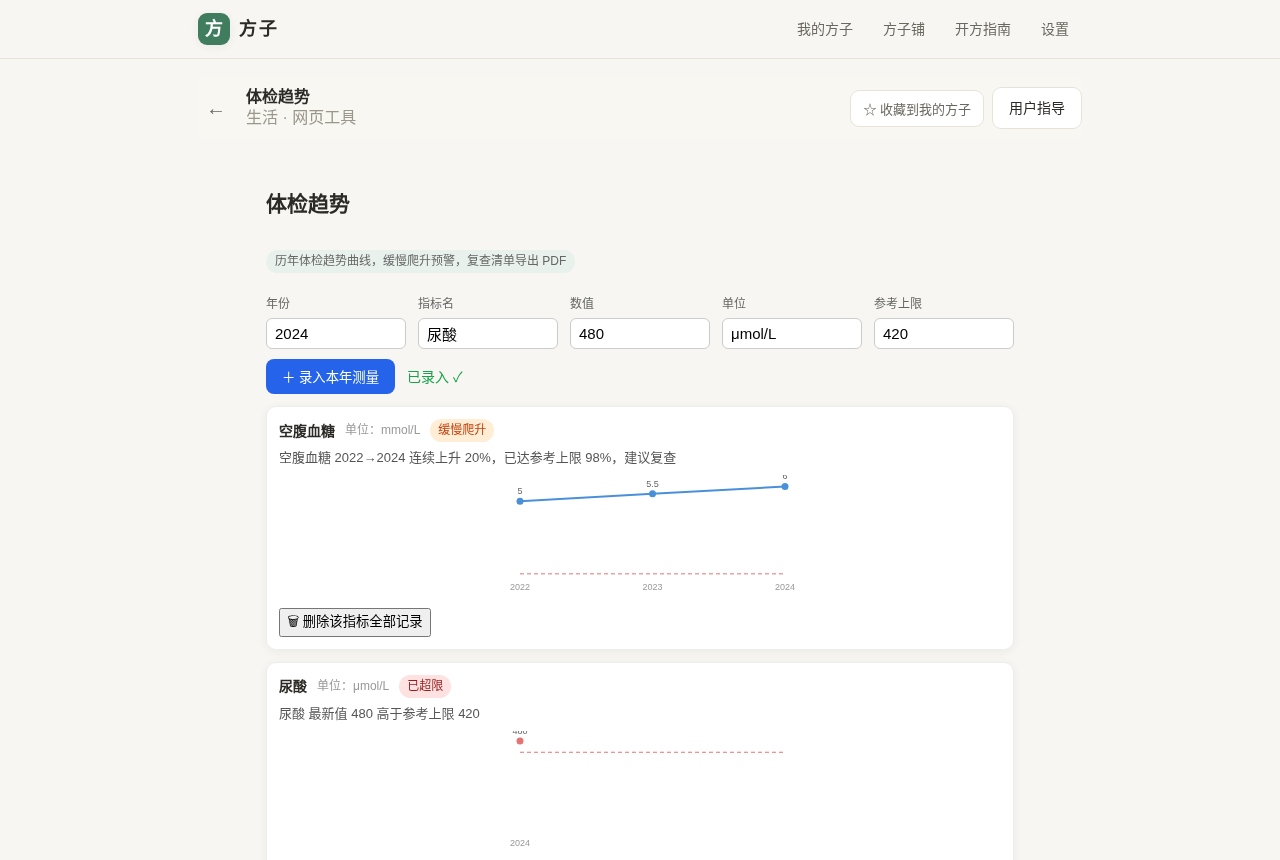
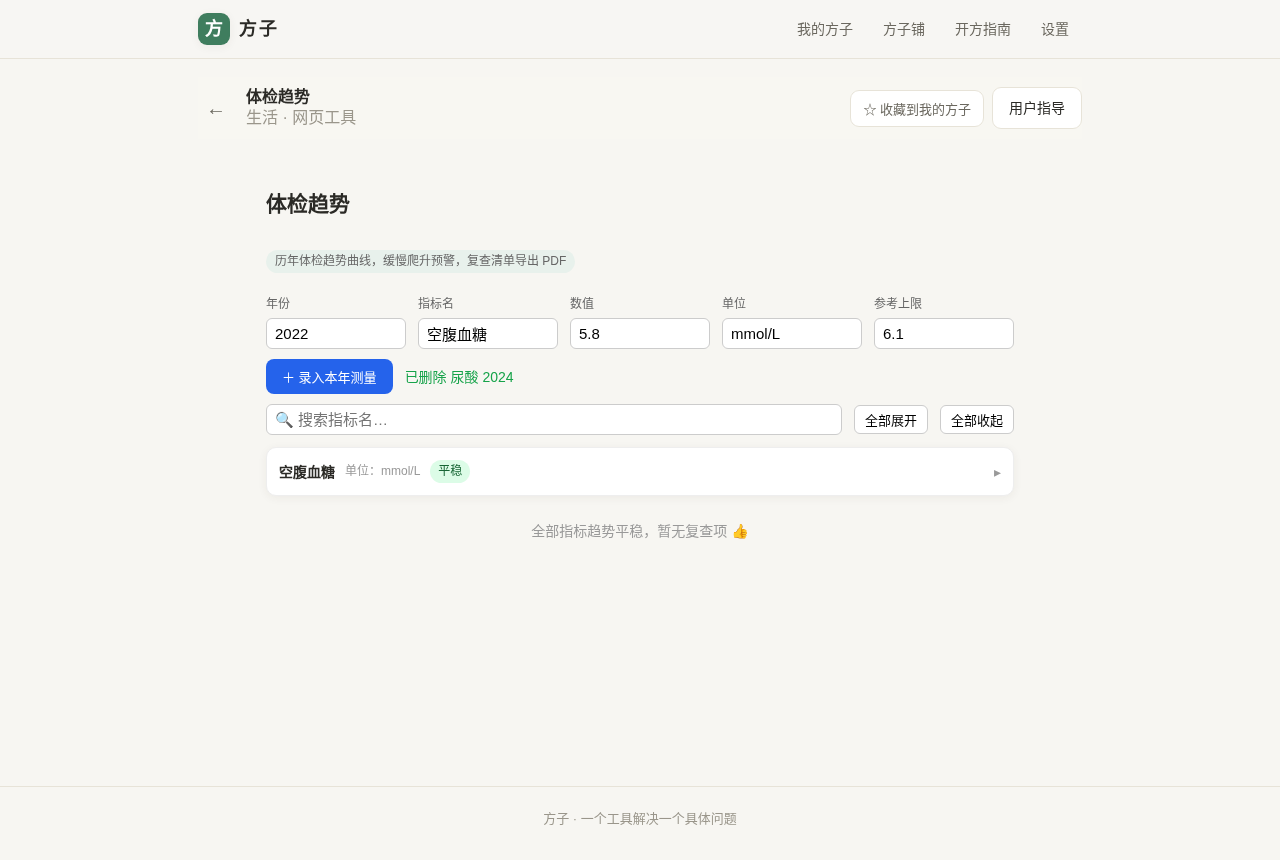
fix(health-trend): 手机折线标签自适应+单条记录编辑删除+搜索过滤与卡片折叠

diff --git a/src/tools/health-trend/index.vue b/src/tools/health-trend/index.vue
@@ -11,28 +11,43 @@
       <label>参考上限 <input type="number" step="0.01" v-model.number="form.refHigh" placeholder="可空" /></label>
     </div>
     <div class="row">
-      <button class="primary" @click="onAdd">＋ 录入本年测量</button>
+      <button class="primary" @click="onSave">{{ form.editId ? '✓ 保存修改' : '＋ 录入本年测量' }}</button>
+      <button v-if="form.editId" @click="cancelEdit">取消编辑</button>
       <span v-if="msg" class="msg">{{ msg }}</span>
     </div>
 
-    <div v-for="item in chartList" :key="item.name" class="card">
-      <div class="card-head">
+    <div class="row toolbar">
+      <input class="search" v-model="keyword" placeholder="🔍 搜索指标名…" />
+      <button @click="expandAll">全部展开</button>
+      <button @click="collapseAll">全部收起</button>
+    </div>
+
+    <div v-for="item in filteredList" :key="item.name" class="card">
+      <div class="card-head" @click="toggle(item.name)" style="cursor:pointer">
         <strong>{{ item.name }}</strong>
         <span class="unit">单位：{{ item.unit }}</span>
         <span class="badge" :class="item.status">{{ statusLabel(item.status) }}</span>
+        <span class="arrow">{{ collapsed.has(item.name) ? '▸' : '▾' }}</span>
       </div>
-      <p class="note">{{ item.note }}</p>
-      <svg viewBox="0 0 300 120" class="chart">
-        <!-- 参考上限阴影带 -->
-        <line v-if="item.refHigh" x1="30" :y1="yOf(item.refHigh)" x2="295" :y2="yOf(item.refHigh)" stroke="#e57373" stroke-dasharray="4 3" />
-        <polyline :points="item.points" fill="none" stroke="#4a90d9" stroke-width="2" />
-        <circle v-for="(p, i) in item.dots" :key="i" :cx="p.x" :cy="p.y" r="3.5" :fill="p.color" />
-        <text v-for="(p, i) in item.dots" :key="'t'+i" :x="p.x" :y="p.y - 7" font-size="9" text-anchor="middle" fill="#666">{{ p.v }}</text>
-        <text v-for="(p, i) in item.dots" :key="'y'+i" :x="p.x" :y="115" font-size="9" text-anchor="middle" fill="#999">{{ p.year }}</text>
-      </svg>
-      <div class="row small">
-        <button @click="onDelete(item)">🗑 删除该指标全部记录</button>
-      </div>
+      <template v-if="!collapsed.has(item.name)">
+        <p class="note">{{ item.note }}</p>
+        <svg viewBox="0 0 300 130" class="chart" preserveAspectRatio="xMidYMid meet">
+          <line v-if="item.refHigh" x1="36" :y1="yOf(item.refHigh, item)" x2="292" :y2="yOf(item.refHigh, item)" stroke="#e57373" stroke-dasharray="4 3" />
+          <polyline :points="item.points" fill="none" stroke="#4a90d9" stroke-width="2" />
+          <circle v-for="(p, i) in item.dots" :key="i" :cx="p.x" :cy="p.y" r="3.5" :fill="p.color" />
+          <text v-for="(p, i) in item.dots" :key="'t'+i" :x="p.x" :y="Math.max(8, p.y - 6)" font-size="8" text-anchor="middle" fill="#666">{{ p.v }}</text>
+          <text v-for="(p, i) in item.dots" :key="'y'+i" :x="p.x" :y="122" font-size="8" text-anchor="middle" fill="#999">{{ p.year }}</text>
+        </svg>
+        <div class="recs">
+          <div v-for="r in item.records" :key="r.id" class="rec">
+            <span>{{ r.year }}：{{ r.value }} {{ r.unit }}<template v-if="r.refHigh != null">（上限 {{ r.refHigh }}）</template></span>
+            <span class="rec-op">
+              <button @click="onEdit(r)">编辑</button>
+              <button @click="onDeleteRecord(r)">删</button>
+            </span>
+          </div>
+        </div>
+      </template>
     </div>
 
     <div class="card" v-if="actionList.length">
@@ -45,7 +60,7 @@
 </template>
 
 <script lang="ts">
-import { defineComponent, reactive, ref, onMounted } from 'vue'
+import { defineComponent, reactive, ref, computed, onMounted } from 'vue'
 import { manifest } from './manifest'
 import { allRecords, saveRecord, deleteRecord } from './lib/store'
 import { buildActionList, genId, groupByName, trendStatus, type MetricRecord, type TrendStatus } from './lib/model'
@@ -58,6 +73,8 @@ interface ChartItem {
   status: TrendStatus
   note: string
   points: string
+  maxV: number
+  records: MetricRecord[]
   dots: Array<{ x: number; y: number; v: number; year: number; color: string }>
 }
 
@@ -66,9 +83,11 @@ export default defineComponent({
   setup() {
     const records = ref<MetricRecord[]>([])
     const msg = ref('')
-    const form = reactive({ year: new Date().getFullYear(), name: '', value: NaN, unit: '', refHigh: NaN })
+    const form = reactive({ editId: '' as string, year: new Date().getFullYear(), name: '', value: NaN, unit: '', refHigh: NaN })
     const chartList = ref<ChartItem[]>([])
     const actionList = ref<ReturnType<typeof buildActionList>>([])
+    const keyword = ref('')
+    const collapsed = ref(new Set<string>())
 
     const rebuild = () => {
       const groups = groupByName(records.value)
@@ -76,12 +95,16 @@ export default defineComponent({
       for (const [name, arr] of groups) {
         const { status, note } = trendStatus(name, arr)
         const maxV = Math.max(...arr.map(r => r.value), ...arr.map(r => r.refHigh ?? 0), 1)
-        const xs = arr.map((_, i) => 30 + (i * 265) / Math.max(arr.length - 1, 1))
+        const xs = arr.map((_, i) => 36 + (i * 256) / Math.max(arr.length - 1, 1))
+        const dots = arr.map((r, i) => ({ x: xs[i]!, y: 100 - (r.value / maxV) * 80, v: r.value, year: r.year, color: status === 'abnormal' ? '#e57373' : '#4a90d9' }))
         list.push({
-          name, unit: arr[0]!.unit, refHigh: arr[arr.length - 1]!.refHigh ?? null, status, note,
-          points: arr.map((r, i) => `${xs[i]},${100 - (r.value / maxV) * 90}`).join(' '),
-          dots: arr.map((r, i) => ({ x: xs[i]!, y: 100 - (r.value / maxV) * 90, v: r.value, year: r.year, color: status === 'abnormal' ? '#e57373' : '#4a90d9' }))
+          name, unit: arr[0]!.unit, refHigh: arr[arr.length - 1]!.refHigh ?? null, status, note, maxV, records: arr,
+          points: dots.map(d => `${d.x},${d.y}`).join(' '),
+          dots
         })
+        // 有预警默认展开，平稳默认折叠
+        if (status === 'ok') collapsed.value.add(name)
+        else collapsed.value.delete(name)
       }
       chartList.value = list
       actionList.value = buildActionList(records.value)
@@ -90,24 +113,49 @@ export default defineComponent({
     const load = async () => { records.value = await allRecords(); rebuild() }
     onMounted(load)
 
-    const onAdd = async () => {
+    const onSave = async () => {
       if (!form.name || Number.isNaN(form.value)) { msg.value = '指标名和数值必填'; return }
-      await saveRecord({ id: genId(), year: form.year, name: form.name.trim(), value: form.value, unit: form.unit.trim(), refLow: null, refHigh: Number.isNaN(form.refHigh) ? null : form.refHigh })
-      msg.value = '已录入 ✓'
+      const id = form.editId || genId()
+      await saveRecord({ id, year: form.year, name: form.name.trim(), value: form.value, unit: form.unit.trim(), refLow: null, refHigh: Number.isNaN(form.refHigh) ? null : form.refHigh })
+      msg.value = form.editId ? '已更新 ✓' : '已录入 ✓'
+      form.editId = ''
+      await load()
+    }
+    const cancelEdit = () => { form.editId = ''; msg.value = '' }
+
+    const onEdit = (r: MetricRecord) => {
+      form.editId = r.id
+      form.year = r.year
+      form.name = r.name
+      form.value = r.value
+      form.unit = r.unit
+      form.refHigh = r.refHigh ?? NaN
+      msg.value = `正在编辑 ${r.name} ${r.year} 年…`
+      window.scrollTo({ top: 0, behavior: 'smooth' })
+    }
+
+    const onDeleteRecord = async (r: MetricRecord) => {
+      if (!confirm(`删除 ${r.name} ${r.year} 年的记录（${r.value} ${r.unit}）？`)) return
+      await deleteRecord(r.id)
+      msg.value = `已删除 ${r.name} ${r.year}`
       await load()
     }
 
-    const yOf = (v: number) => {
-      const maxV = Math.max(...records.value.flatMap(r => [r.value, ...(r.refHigh != null ? [r.refHigh] : [])]), 1)
-      return 100 - (v / maxV) * 90
+    const toggle = (name: string) => {
+      const s = new Set(collapsed.value)
+      if (s.has(name)) s.delete(name); else s.add(name)
+      collapsed.value = s
     }
+    const expandAll = () => { collapsed.value = new Set() }
+    const collapseAll = () => { collapsed.value = new Set(chartList.value.map(c => c.name)) }
+
+    const filteredList = computed(() =>
+      chartList.value.filter(c => !keyword.value.trim() || c.name.includes(keyword.value.trim()))
+    )
+
+    const yOf = (v: number, item: ChartItem) => 100 - (v / item.maxV) * 80
 
     const statusLabel = (s: TrendStatus) => s === 'abnormal' ? '已超限' : s === 'climb' ? '缓慢爬升' : '平稳'
-    const onDelete = async (item: ChartItem) => {
-      for (const r of records.value.filter(r => r.name === item.name)) await deleteRecord(r.id)
-      msg.value = `已删除 ${item.name}`
-      await load(); rebuild()
-    }
 
     const exportPdf = async () => {
       const doc = document.createElement('canvas')
@@ -140,7 +188,7 @@ export default defineComponent({
       setTimeout(() => URL.revokeObjectURL(url), 4000)
     }
 
-    return { manifest, records, msg, form, chartList, actionList, onAdd, onDelete, exportPdf, statusLabel, yOf }
+    return { manifest, records, msg, form, chartList, actionList, keyword, collapsed, filteredList, onSave, cancelEdit, onEdit, onDeleteRecord, toggle, expandAll, collapseAll, exportPdf, statusLabel, yOf }
   }
 })
 </script>
@@ -150,18 +198,25 @@ export default defineComponent({
 .tag { color: #666; overflow-wrap: break-word; }
 .row { display: flex; flex-wrap: wrap; gap: 12px; align-items: center; margin: 10px 0; }
 .row.small { margin: 6px 0 0; }
+.row.toolbar { align-items: center; }
+.search { flex: 1 1 160px; padding: 6px 8px; border: 1px solid #ccc; border-radius: 6px; }
 .row label { display: flex; flex-direction: column; gap: 4px; font-size: 12px; color: #666; flex: 1 1 140px; max-width: 100%; }
 .row input { padding: 6px 8px; border: 1px solid #ccc; border-radius: 6px; width: 100%; box-sizing: border-box; }
 .primary { background: #2563eb; color: #fff; border: none; padding: 8px 16px; border-radius: 8px; cursor: pointer; }
+button { padding: 4px 10px; border: 1px solid #ccc; border-radius: 6px; background: #fff; cursor: pointer; font-size: 13px; }
 .msg { color: #16a34a; }
 .card { border: 1px solid #eee; border-radius: 10px; padding: 12px; margin: 12px 0; }
 .card-head { display: flex; gap: 10px; align-items: center; flex-wrap: wrap; }
+.arrow { margin-left: auto; color: #999; }
 .unit { color: #999; font-size: 12px; }
 .badge { padding: 2px 8px; border-radius: 99px; font-size: 12px; }
 .badge.ok { background: #dcfce7; color: #166534; }
 .badge.climb { background: #ffedd5; color: #c2410c; }
 .badge.abnormal { background: #fee2e2; color: #991b1b; }
 .note { color: #555; font-size: 13px; margin: 6px 0; }
-.chart { width: 100%; height: 120px; }
+.chart { width: 100%; height: 130px; }
+.recs { margin-top: 6px; }
+.rec { display: flex; justify-content: space-between; align-items: center; padding: 4px 0; border-top: 1px dashed #eee; font-size: 13px; }
+.rec-op { display: flex; gap: 6px; }
 .empty { color: #999; text-align: center; margin: 24px 0; }
 </style>

diff --git a/test/health-trend.test.ts b/test/health-trend.test.ts
@@ -58,3 +58,24 @@ test('groupByName: 按指标名分组并按年排序', () => {
   assert.equal(g.size, 1)
   assert.deepEqual([...g.get('尿酸')!].map(r => r.year), [2023, 2024])
 })
+
+test('单条编辑后趋势重算：climb 改平 → ok', () => {
+  const base: MetricRecord[] = [
+    { id: '1', year: 2022, name: '血糖', value: 5.0, unit: '', refHigh: 6.1 },
+    { id: '2', year: 2023, name: '血糖', value: 5.5, unit: '', refHigh: 6.1 },
+    { id: '3', year: 2024, name: '血糖', value: 6.0, unit: '', refHigh: 6.1 }
+  ]
+  assert.equal(trendStatus('血糖', base).status, 'climb')
+  const edited = base.map(r => r.id === '3' ? { ...r, value: 5.2 } : r)
+  assert.equal(trendStatus('血糖', edited).status, 'ok')
+  assert.equal(buildActionList(edited).length, 0)
+})
+
+test('climb 三条件门槛缺一不可：中间回落不连续 → 不预警', () => {
+  const noRise: MetricRecord[] = [
+    { id: '1', year: 2022, name: '血糖', value: 5.0, unit: '', refHigh: 6.1 },
+    { id: '2', year: 2023, name: '血糖', value: 4.8, unit: '', refHigh: 6.1 },
+    { id: '3', year: 2024, name: '血糖', value: 6.0, unit: '', refHigh: 6.1 }
+  ]
+  assert.equal(trendStatus('血糖', noRise).status, 'ok')
+})

diff --git a/src/tools/health-trend/docs/postmortem_004_体检趋势.md b/src/tools/health-trend/docs/postmortem_004_体检趋势.md
@@ -17,11 +17,16 @@
 - E2E reload 持久化必须在同一 context 内 `page.reload()`，新开 context 是全新 IDB 会误判丢数据。
 
 ## 验证覆盖
-- 单测：`test/health-trend.test.ts` 6 例（平稳/超限/climb/涨幅不足/清单排序/分组）。
-- 全量 `npm test`：**553 通过 / 0 失败**（基线 547 + 6）。
+- 单测：`test/health-trend.test.ts` **8 例**（平稳/超限/climb/涨幅不足/清单排序/分组 + 编辑后趋势重算 climb→ok、climb 三条件门槛缺一不预警）。
+- 全量 `npm test`：**555 通过 / 0 失败**（基线 553 + 2）。
 - `npx vue-tsc --noEmit`：**0 错误**。
-- `npm run verify:tools`：**37**（新增独立顶层工具 36→37）。
-- Playwright 三视口：录 3 年血糖 → 自动识别「缓慢爬升」；录尿酸超限 → 「复查行动清单」出现；reload 同 context 数据保留；零横向溢出、无 pageerror。
+- `npm run verify:tools`：**37**（本轮增量未动工具数）。
+- Playwright 三视口：录 3 年血糖 → 自动识别「缓慢爬升」；搜索「血糖」图表过滤=1；单条记录编辑保存→「已更新」；单条删除（dialog 确认）→「已删除」；reload 同 context 数据保留；零横向溢出、无 pageerror。
+
+## 迭代修复（2026-11-03，基于 565eaf8）
+- **需求1 手机折线标签裁切**：SVG viewBox 加高到 130、左右留白 36/292、字号 9→8、点值标签 Math.max(8, y-6) 钳顶、年份标签 y=122 底对齐，窄屏完整可读；PC 观感不变。
+- **需求2 单条编辑/删除**：每条记录行加「编辑/删」，编辑回填顶部表单（editId）upsert 保存；删除 confirm 二次确认后 deleteRecord(id)，不再整指标清空。
+- **需求3 搜索+折叠**：`keyword` computed 按指标名过滤；卡片点头部折叠，有预警默认展开、平稳默认收起，附「全部展开/收起」。
 
 ### 截图有效性
 | 文件 | 视口 | 大小（字节） | 结论 |

diff --git a/src/tools/health-trend/docs/guide_004_体检趋势.md b/src/tools/health-trend/docs/guide_004_体检趋势.md
@@ -9,8 +9,10 @@
 
 ## 使用说明
 1. 每年体检后，在顶部表单填年份、指标名（如 空腹血糖）、数值、单位、参考上限，点「＋ 录入本年测量」。
-2. 同一指标名的历年数据会自动汇成一条趋势曲线：虚线是参考上限，红点=已超限，橙色徽标=连续爬升预警。
-3. 下方「复查行动清单」自动列出所有需要复查的指标（已超限优先），点「导出复查清单 PDF」可直接带去医院。
+2. 同一指标名的历年数据会自动汇成一条趋势曲线：虚线是参考上限，红点=已超限，橙色徽标=连续爬升预警；手机窄屏自适应不裁切坐标与数值。
+3. 录错了：每条记录下方有「编辑/删」，可单独改某年数值（顶部表单回填后点「保存修改」）或删该年记录（二次确认）。
+4. 指标多了：顶部「🔍 搜索指标名」即时过滤；卡片点头部折叠/展开——有预警默认展开、平稳默认收起，另有「全部展开/收起」。
+5. 下方「复查行动清单」自动列出所有需要复查的指标（已超限优先），点「导出复查清单 PDF」可直接带去医院。
 
 ![PC 趋势页：空腹血糖缓慢爬升徽标+曲线，尿酸已超限](shots/pc-health-trend.png)
 
